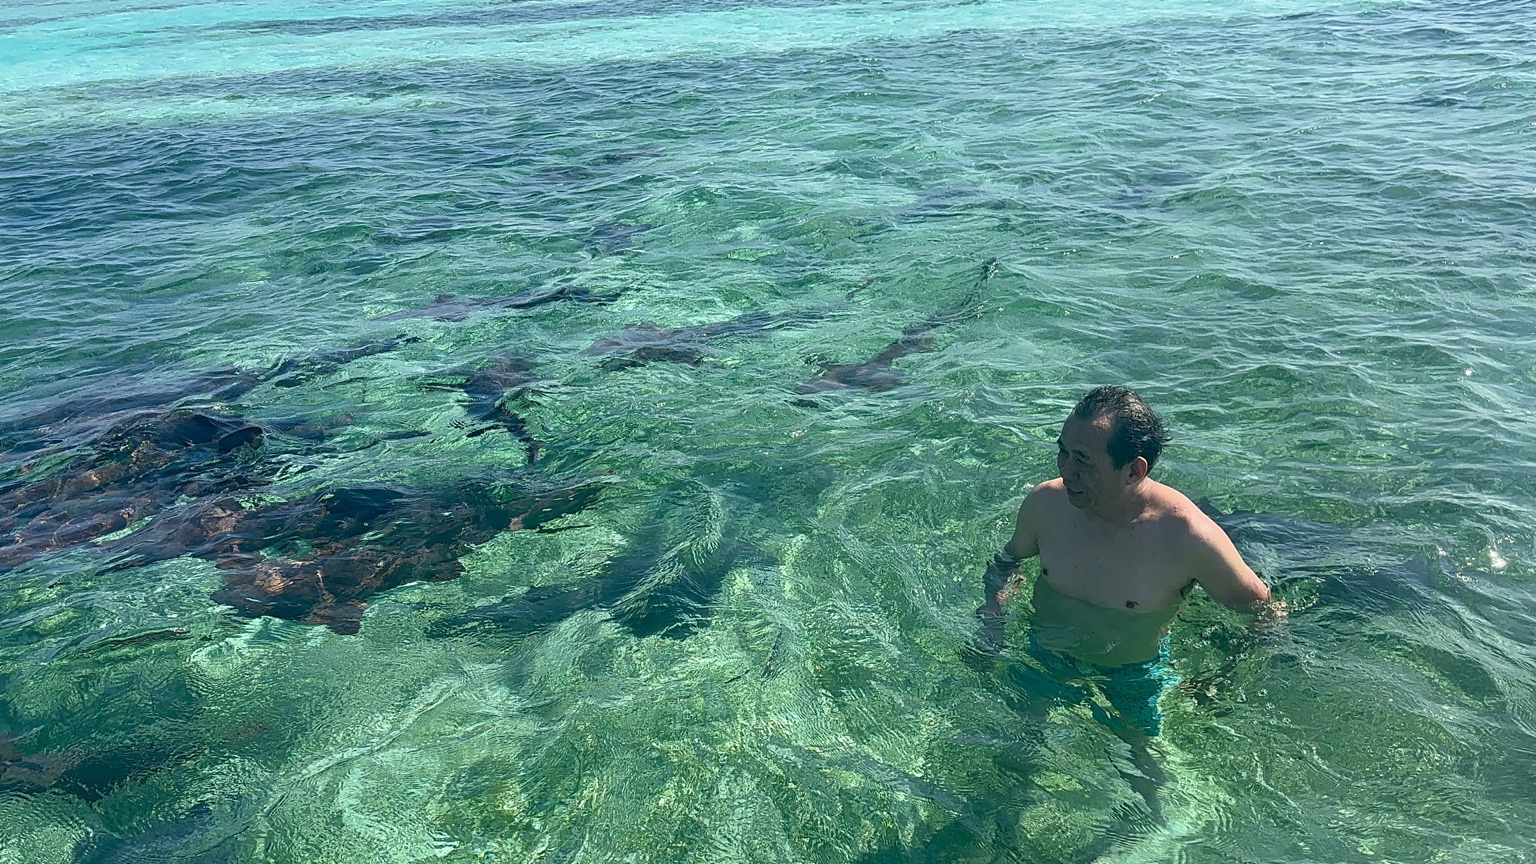
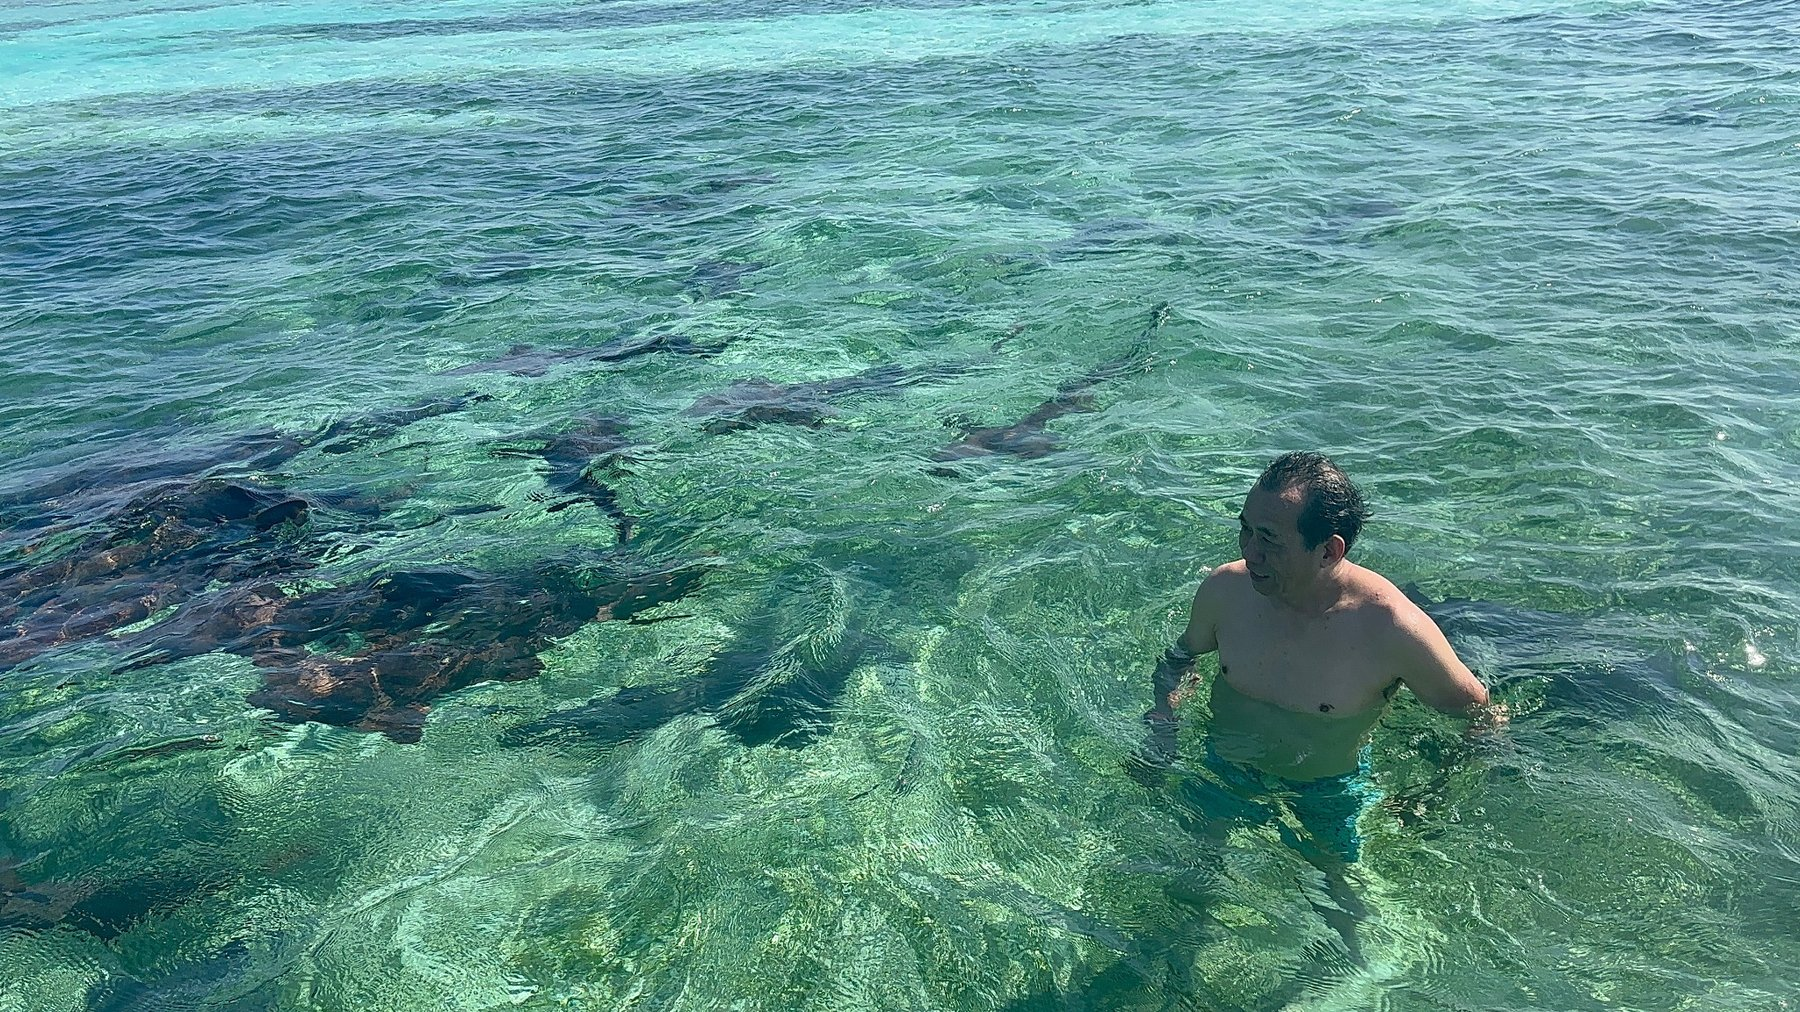
Add files via upload

diff --git a/index.html b/index.html
@@ -753,7 +753,7 @@
 
     <div class="tours-grid">
       <article class="tour-card">
-        <div class="tour-image" style="background-image:url('assets/images/spearfishing.jpg');"></div>
+        <div class="tour-image" style="background-image:url('assets/images/snorkel-tour-2.jpg');"></div>
         <div class="tour-body">
           <div class="tour-meta-row">
             <span>⏱ 4–5 hours</span>
@@ -766,6 +766,27 @@
           <div class="tour-footer">
             <span class="price-tag">From $85 USD</span>
             <div style="display:flex; gap:10px; align-items:center; justify-content:flex-end;"><a href="#" class="btn-primary" style="padding:0.35rem 0.8rem; font-size:0.8rem; box-shadow:none;" data-book-tour="All Day Snorkel Party" data-book-img="assets/images/snorkel-tour-1.jpg">Book</a><a href="tours.html#shark-ray-alley" class="btn-ghost" style="font-size:0.8rem;padding:0.35rem 0.8rem;">View details</a></div>
+          </div>
+        </div>
+      </article>
+
+      <article class="tour-card">
+        <div class="tour-image" style="background-image:url('assets/images/spearfishing.jpg');"></div>
+        <div class="tour-body">
+          <div class="tour-meta-row">
+            <span>⏱ 5 hours</span>
+            <span>Sport</span>
+          </div>
+          <div class="tour-title">Spearfishing Tour</div>
+          <p class="tour-desc">
+            Learn the basics with a local guide and practice responsible reef spearfishing. Includes safety briefing, technique tips, and time on the water.
+          </p>
+          <div class="tour-footer">
+            <span class="price-tag">From $125.50 USD</span>
+            <div style="display:flex; gap:10px; align-items:center; justify-content:flex-end;">
+              <a href="#" class="btn-primary" style="padding:0.35rem 0.8rem; font-size:0.8rem; box-shadow:none;" data-book-tour="Spearfishing Tour" data-book-img="assets/images/spearfishing.jpg">Book</a>
+              <a href="tours.html#spearfishing" class="btn-ghost" style="font-size:0.8rem;padding:0.35rem 0.8rem;">View details</a>
+            </div>
           </div>
         </div>
       </article>
